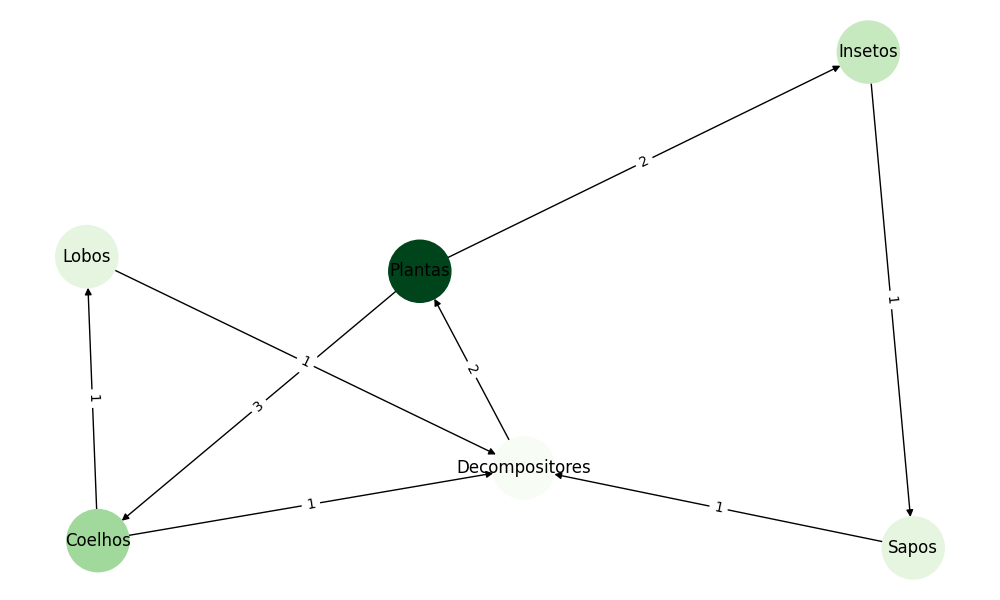
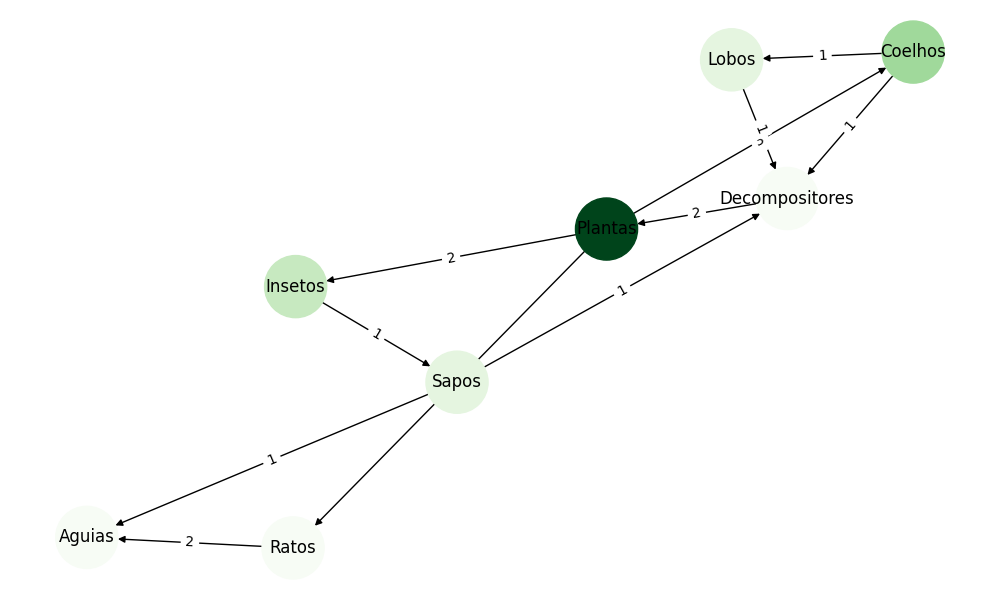
feat: ajustes no grafo inicial

diff --git a/interativo.py b/interativo.py
@@ -15,7 +15,9 @@ def criar_ecossistema():
         "Lobos": 3,
         "Insetos": 4,
         "Sapos": 3,
-        "Decompositores": 2
+        "Decompositores": 2,
+        "Ratos": 2,
+        "Aguias": 2
     }
     
     for especie, energia in especies.items():
@@ -30,6 +32,9 @@ def criar_ecossistema():
     eco.add_edge("Lobos", "Decompositores", weight=1)
     eco.add_edge("Coelhos", "Decompositores", weight=1)
     eco.add_edge("Sapos", "Decompositores", weight=1)
+    eco.add_edge("Plantas", "Ratos", weight=1)
+    eco.add_edge("Ratos", "Aguias", weight=2)
+    eco.add_edge("Sapos", "Aguias", weight=1)
     
     return eco
 
